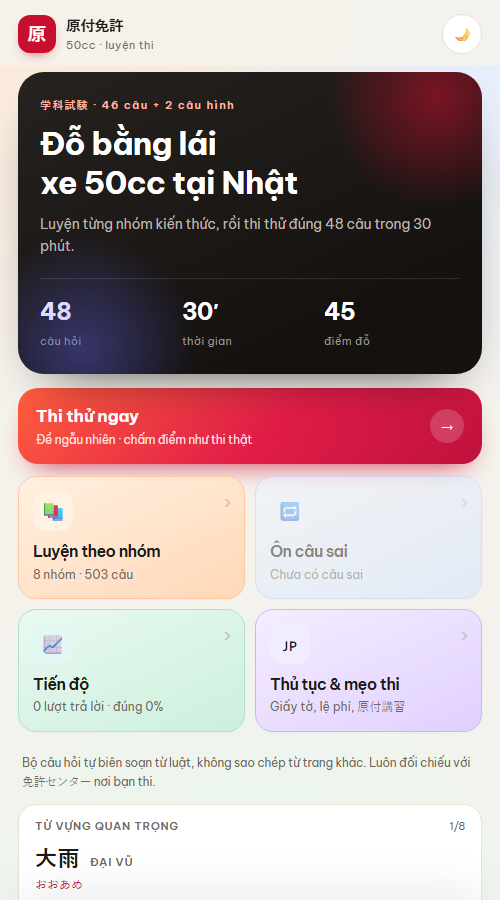
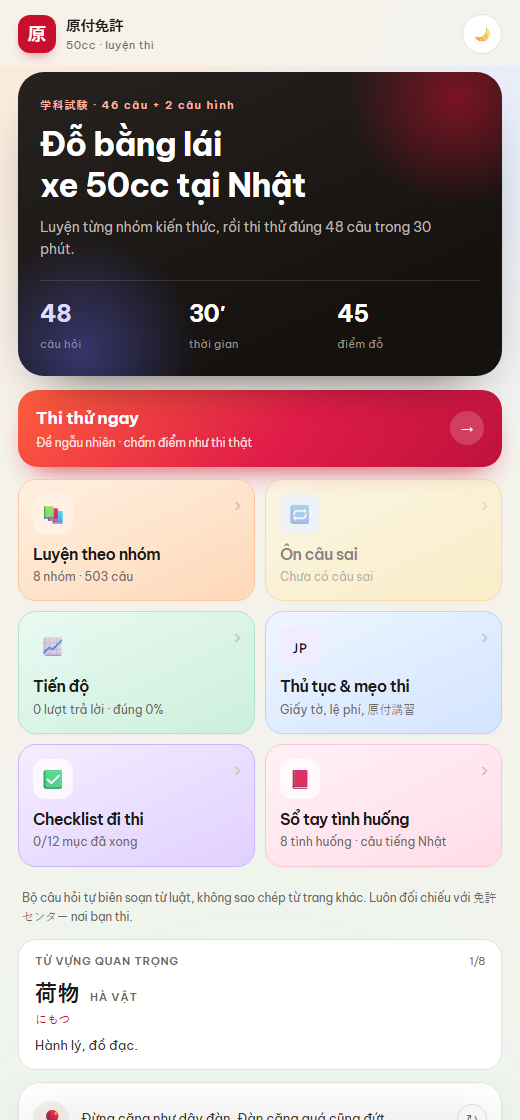
Add files via upload

diff --git a/js/app.js b/js/app.js
@@ -307,17 +307,44 @@
     return list[i];
   }
 
-  function quoteBlock() {
-    var q = pickQuote();
-    if (!q) { return ''; }
-    return '<section class="quote" id="quoteBox">' +
-      '<div class="quote-emoji">' + q.e + '</div>' +
+  function quoteInner(q) {
+    return '<div class="quote-emoji">' + q.e + '</div>' +
       '<div class="quote-body">' +
         '<p class="quote-text">' + esc(q.t) + '</p>' +
         (q.a ? '<p class="quote-author">— ' + esc(q.a) + '</p>' : '') +
-      '</div>' +
+      '</div>';
+  }
+
+  function quoteBlock() {
+    var q = pickQuote();
+    if (!q) { return ''; }
+    return '<section class="quote" id="quoteBox">' + quoteInner(q) +
       '<button class="quote-next" data-act="quote" aria-label="Câu khác" title="Câu khác">↻</button>' +
       '</section>';
+  }
+
+  /* tự đổi câu động lực liên tục, nhanh hơn khối từ vựng */
+  var QROT = { timer: null };
+  var QROT_MS = 3600;
+
+  function stopQuoteRotate() {
+    if (QROT.timer) { clearInterval(QROT.timer); QROT.timer = null; }
+  }
+
+  function startQuoteRotate() {
+    stopQuoteRotate();
+    if (!(window.QUOTES || []).length) { return; }
+    QROT.timer = setInterval(function () {
+      var box = document.getElementById('quoteBox');
+      if (!box) { stopQuoteRotate(); return; }
+      var q = pickQuote();
+      if (!q) { return; }
+      box.innerHTML = quoteInner(q) +
+        '<button class="quote-next" data-act="quote" aria-label="Câu khác" title="Câu khác">↻</button>';
+      box.classList.remove('swap');
+      void box.offsetWidth;
+      box.classList.add('swap');
+    }, QROT_MS);
   }
 
   /* ---------------- tỷ giá JPY → VND ---------------- */
@@ -678,6 +705,18 @@
           '<button class="tile" data-act="go-info">' +
             '<span class="tile-icon">🇯🇵</span>' +
             '<span class="tile-body"><h3>Thủ tục & mẹo thi</h3><p>Giấy tờ, lệ phí, 原付講習</p></span>' +
+            '<span class="chev">›</span>' +
+          '</button>' +
+          '<button class="tile" data-act="go-checklist">' +
+            '<span class="tile-icon">✅</span>' +
+            '<span class="tile-body"><h3>Checklist đi thi</h3><p>' +
+              CHECKLIST.filter(function (x, i) { return db.checklist['c' + i]; }).length + '/' + CHECKLIST.length +
+              ' mục đã xong</p></span>' +
+            '<span class="chev">›</span>' +
+          '</button>' +
+          '<button class="tile" data-act="go-sos">' +
+            '<span class="tile-icon">📕</span>' +
+            '<span class="tile-body"><h3>Sổ tay tình huống</h3><p>' + SITS.length + ' tình huống · câu tiếng Nhật</p></span>' +
             '<span class="chev">›</span>' +
           '</button>' +
         '</div>' +
@@ -1148,6 +1187,50 @@
       '</main>';
   }
 
+  function chkList() {
+    return CHECKLIST.map(function (x, i) {
+      var on = !!db.checklist['c' + i];
+      return '<button class="chk-item' + (on ? ' done' : '') + '" data-act="check" data-k="c' + i + '">' +
+        '<span class="chk-box">' + (on ? '✓' : '') + '</span><span>' + esc(x) + '</span></button>';
+    }).join('');
+  }
+
+  function viewChecklist() {
+    var done = CHECKLIST.filter(function (x, i) { return db.checklist['c' + i]; }).length;
+    return topbar('Checklist đi thi') +
+      '<main class="wrap">' +
+        '<section class="panel">' +
+          '<h2>Chuẩn bị trước ngày thi</h2>' +
+          '<p class="muted" id="chkCount">' + done + '/' + CHECKLIST.length +
+            ' mục đã xong — lưu trên máy này.</p>' +
+          '<div class="chk">' + chkList() + '</div>' +
+        '</section>' +
+      '</main>';
+  }
+
+  function viewSos() {
+    return topbar('Sổ tay tình huống') +
+      '<main class="wrap">' +
+        '<section class="panel">' +
+          '<h2>Câu tiếng Nhật dùng được ngay</h2>' +
+          '<p class="muted">Chạm vào từng tình huống để mở.</p>' +
+          SITS.map(function (s) {
+            return '<details class="sos">' +
+              '<summary><span class="sos-icon">' + esc(s.icon) + '</span>' + esc(s.vi) + '</summary>' +
+              '<p class="sos-tip">' + esc(s.tip) + '</p>' +
+              '<ul class="sos-list">' +
+                s.phrases.map(function (ph) {
+                  return '<li><span class="sos-ja">' + esc(ph.ja) + '</span>' +
+                    '<span class="sos-r">' + esc(ph.r) + '</span>' +
+                    '<span class="sos-vi">' + esc(ph.vi) + '</span></li>';
+                }).join('') +
+              '</ul>' +
+            '</details>';
+          }).join('') +
+        '</section>' +
+      '</main>';
+  }
+
   function viewInfo() {
     return topbar('Thủ tục & mẹo thi') +
       '<main class="wrap info">' +
@@ -1202,39 +1285,9 @@
           '</div>' +
         '</section>' +
         '<section class="panel">' +
-          '<h2>Checklist đi thi</h2>' +
-          '<p class="muted" id="chkCount">' +
-            CHECKLIST.filter(function (x, i) { return db.checklist['c' + i]; }).length + '/' + CHECKLIST.length +
-          ' mục đã xong — lưu trên máy này.</p>' +
-          '<div class="chk">' +
-            CHECKLIST.map(function (x, i) {
-              var on = !!db.checklist['c' + i];
-              return '<button class="chk-item' + (on ? ' done' : '') + '" data-act="check" data-k="c' + i + '">' +
-                '<span class="chk-box">' + (on ? '✓' : '') + '</span><span>' + esc(x) + '</span></button>';
-            }).join('') +
-          '</div>' +
-        '</section>' +
-        '<section class="panel">' +
-          '<h2>Sổ tay tình huống</h2>' +
-          '<p class="muted">Câu tiếng Nhật dùng được ngay khi ra đường.</p>' +
-          SITS.map(function (s) {
-            return '<details class="sos">' +
-              '<summary><span class="sos-icon">' + esc(s.icon) + '</span>' + esc(s.vi) + '</summary>' +
-              '<p class="sos-tip">' + esc(s.tip) + '</p>' +
-              '<ul class="sos-list">' +
-                s.phrases.map(function (p) {
-                  return '<li><span class="sos-ja">' + esc(p.ja) + '</span>' +
-                    '<span class="sos-r">' + esc(p.r) + '</span>' +
-                    '<span class="sos-vi">' + esc(p.vi) + '</span></li>';
-                }).join('') +
-              '</ul>' +
-            '</details>';
-          }).join('') +
-        '</section>' +
-        '<section class="panel">' +
           '<h2>Về bộ câu hỏi này</h2>' +
           '<p>Toàn bộ câu hỏi được biên soạn lại bằng tiếng Nhật từ nội dung luật (道路交通法), có giải thích tiếng Việt. ' +
-          'Không sao chép văn bản từ trang luyện thi nào. Nếu bạn muốn thêm câu từ một nguồn khác, hãy chắc chắn bạn có quyền sử dụng nội dung đó.</p>' +
+          'Không sao chép văn bản từ trang luyện thi nào.</p>' +
         '</section>' +
         '<section class="panel">' +
           '<h2>Cộng đồng & góp ý</h2>' +
@@ -1485,14 +1538,18 @@
     else if (screen === 'info') { html = viewInfo(); }
     else if (screen === 'gram') { html = viewGram(); }
     else if (screen === 'cards') { html = viewCards(); }
+    else if (screen === 'checklist') { html = viewChecklist(); }
+    else if (screen === 'sos') { html = viewSos(); }
     else { html = viewHome(); }
     app.innerHTML = html;
     window.scrollTo(0, 0);
     if (screen === 'home') {
       fxLoad(false);
       startVocabRotate();
+      startQuoteRotate();
     } else {
       stopVocabRotate();
+      stopQuoteRotate();
     }
     if (screen === 'quiz' && S && S.mode === 'exam') { paintTimer(); }
     navSync();
@@ -1522,6 +1579,7 @@
     if (act === 'quote') {
       var qb = document.getElementById('quoteBox');
       if (qb) { qb.outerHTML = quoteBlock(); }
+      startQuoteRotate();
       return;
     }
     if (act === 'theme') {
@@ -1534,6 +1592,8 @@
     if (act === 'go-practice') { go('practice'); return; }
     if (act === 'go-stats') { go('stats'); return; }
     if (act === 'go-info') { go('info'); return; }
+    if (act === 'go-checklist') { go('checklist'); return; }
+    if (act === 'go-sos') { go('sos'); return; }
     if (act === 'check') {
       var ck = t.dataset.k;
       db.checklist[ck] = !db.checklist[ck];
@@ -1656,7 +1716,8 @@
     render();
   });
   document.addEventListener('visibilitychange', function () {
-    if (document.hidden) { stopVocabRotate(); } else if (screen === 'home') { startVocabRotate(); }
+    if (document.hidden) { stopVocabRotate(); stopQuoteRotate(); }
+    else if (screen === 'home') { startVocabRotate(); startQuoteRotate(); }
   });
   var sheetBack = document.getElementById('sheetBack');
   if (sheetBack) { sheetBack.addEventListener('click', closeSheet); }
@@ -1677,6 +1738,8 @@
     finishPractice();
   } else if (demo === 'stats') { go('stats'); }
   else if (demo === 'gram') { go('gram'); }
+  else if (demo === 'check') { go('checklist'); }
+  else if (demo === 'sos') { go('sos'); }
   else if (demo === 'cards') { startCards(); }
   else if (demo === 'info') { go('info'); }
   else if (demo === 'practice') { go('practice'); }

diff --git a/css/style.css b/css/style.css
@@ -1295,3 +1295,31 @@ html.furi .w rt { display: inline; }
 
 .catrow-special:nth-child(3) { background: linear-gradient(100deg, #eef4ff, #ffffff 60%); border-color: #c9d8f5; }
 [data-theme="dark"] .catrow-special:nth-child(3) { background: var(--card); border-color: #2b3748; }
+
+/* ---------- câu động lực tự đổi ---------- */
+.quote { min-height: 74px; }
+.quote.swap { animation: vfade .4s ease both; }
+
+/* ô 5–6 trang chủ */
+.tiles .tile:nth-child(5) { background: linear-gradient(155deg, #fff9dd, #ffe9a3); border-color: #f2d067; }
+.tiles .tile:nth-child(6) { background: linear-gradient(155deg, #fff1f6, #ffdcea); border-color: #ffc4dd; }
+[data-theme="dark"] .tiles .tile:nth-child(5) { background: linear-gradient(155deg, #2e2a15, #1e1b18); border-color: #4a4222; }
+[data-theme="dark"] .tiles .tile:nth-child(6) { background: linear-gradient(155deg, #2b1f26, #1b1a18); border-color: #452c3a; }
+
+/* ============================================================
+   Thứ tự màu theo sắc độ (vòng hue tăng dần):
+   cam 28° → vàng 48° → mint 150° → xanh dương 218° → tím 265° → hồng 338°
+   ============================================================ */
+.tiles .tile:nth-child(1) { background: linear-gradient(155deg, #fff0e0, #ffd8b8); border-color: #ffc7a0; }
+.tiles .tile:nth-child(2) { background: linear-gradient(155deg, #fff9dd, #ffe9a3); border-color: #f2d067; }
+.tiles .tile:nth-child(3) { background: linear-gradient(155deg, #eafaf1, #ccefdd); border-color: #afe4c8; }
+.tiles .tile:nth-child(4) { background: linear-gradient(155deg, #eef6ff, #d3e4ff); border-color: #b9d2ff; }
+.tiles .tile:nth-child(5) { background: linear-gradient(155deg, #f5edff, #e0d0ff); border-color: #cbb5ff; }
+.tiles .tile:nth-child(6) { background: linear-gradient(155deg, #fff1f6, #ffdcea); border-color: #ffc4dd; }
+
+[data-theme="dark"] .tiles .tile:nth-child(1) { background: linear-gradient(155deg, #33261c, #211b17); border-color: #4a3425; }
+[data-theme="dark"] .tiles .tile:nth-child(2) { background: linear-gradient(155deg, #2e2a15, #1e1b18); border-color: #4a4222; }
+[data-theme="dark"] .tiles .tile:nth-child(3) { background: linear-gradient(155deg, #1b2b24, #1b1a18); border-color: #2c4738; }
+[data-theme="dark"] .tiles .tile:nth-child(4) { background: linear-gradient(155deg, #1e2937, #1b1a18); border-color: #31415a; }
+[data-theme="dark"] .tiles .tile:nth-child(5) { background: linear-gradient(155deg, #281f36, #1b1a18); border-color: #3d3157; }
+[data-theme="dark"] .tiles .tile:nth-child(6) { background: linear-gradient(155deg, #2b1f26, #1b1a18); border-color: #452c3a; }

diff --git a/sw.js b/sw.js
@@ -1,6 +1,6 @@
 /* Service worker — cho phép dùng offline sau lần mở đầu tiên.
    Đổi CACHE khi sửa nội dung để buộc tải bản mới. */
-const CACHE = 'gentsuki-v35';
+const CACHE = 'gentsuki-v39';
 
 const ASSETS = [
   './',

diff --git a/README.md b/README.md
@@ -14,7 +14,9 @@ Web app tĩnh, không cần server, không cần build. Mở `index.html` là ch
 - **Mức sẵn sàng**: dựa trên 5 đề gần nhất, tự báo Đủ / Gần đạt / Chưa.
 - **Bẫy ngôn ngữ**: 62 câu luyện cấu trúc đề thi (8 mẫu), tách riêng khỏi kho thi thử.
 - **Đọc câu + phiên âm**: nút 🔊 đọc câu bằng giọng Nhật, nút あ bật furigana cho từ vựng.
-- **Cẩm nang**: bảng so sánh thói quen Việt–Nhật, checklist 12 mục đi thi (tick được), sổ tay 8 tình huống với câu tiếng Nhật mẫu.
+- **Checklist đi thi**: 12 mục tick được, lưu trên máy — màn hình riêng từ trang chủ.
+- **Sổ tay tình huống**: 8 tình huống × 5 câu tiếng Nhật có romaji — màn hình riêng.
+- **Cẩm nang**: thủ tục, luật mới, mẹo thi và bảng so sánh thói quen Việt–Nhật.
 - **Đề khó**: 20 câu dài/khó nhất kho.
 - **Flashcard từ vựng**: 12 thẻ/lượt, chia 3 hộp theo mức nhớ, ưu tiên thẻ còn khó.
 - **Chuỗi ngày học**: đếm số ngày liên tiếp có làm bài, hiện ở trang Tiến độ.
